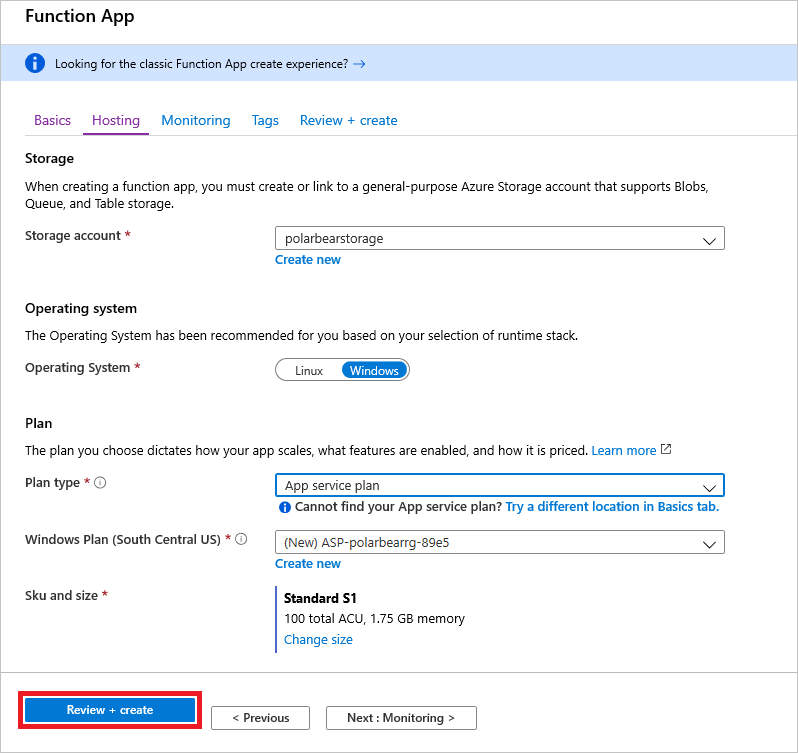
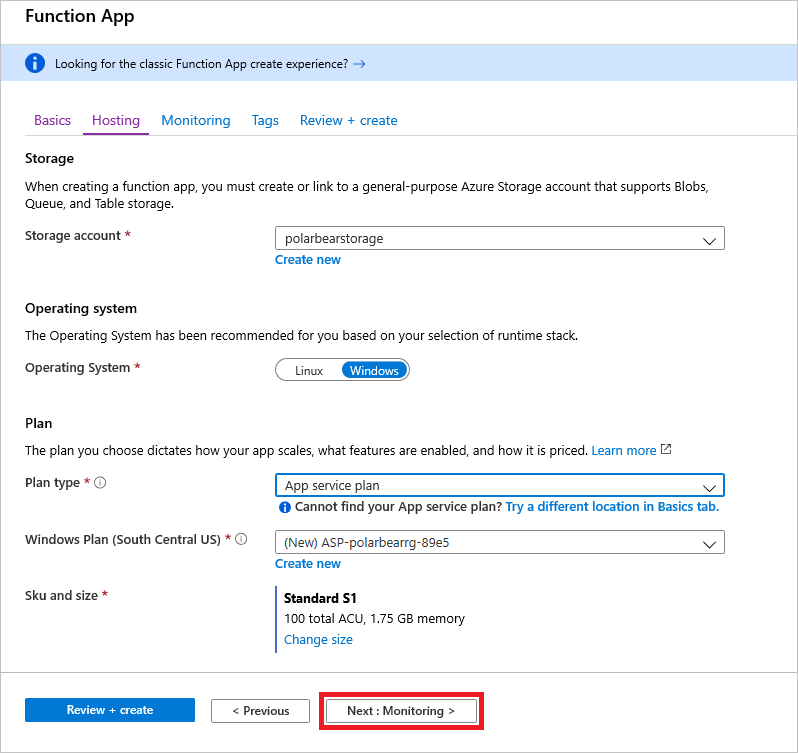
Updated polar-bear module

Changed region(s): [[0.0, 0.9163, 0.6316, 0.9774]]

diff --git a/Combat Climate Change with AI and Azure/includes/3-azure-functions.md b/Combat Climate Change with AI and Azure/includes/3-azure-functions.md
@@ -14,11 +14,17 @@ Azure Functions can be written in the Azure Portal or written externally using t
 
     _Creating an Azure Function App_
 
-1. Select the storage account that you created to receive wildlife photos. Change **Plan type** to **App service plan** so the function will execute immediately when a blob is uploaded to the "photos" container. Accept the defaults everywhere else, and click **Review + create**. Wait for validation to complete, and then click **Create**.
+1. Select the storage account that you created to receive wildlife photos. Change the plan type to **App service plan** so the function will execute immediately when a blob is uploaded to the "photos" container. Accept the defaults everywhere else, and click **Review + create**. Wait for validation to complete, and then click **Create**.
 
     ![Specifying hosting options](media/create-function-app-2.png)
 
     _Specifying hosting options_
+
+1. Click **No** to disable Application Insights, followed by **Review + create**. Wait for validation to complete, and then click **Create**.
+
+    ![Disabling Application Insights](media/create-function-app-3.png)
+
+    _Disabling Application Insights_
 
 1. Wait for the Function App to be deployed. Then open it in the Azure Portal and click the **+** sign to the right of **Functions**. Click **In-portal**, and then click **Continue**.
 
